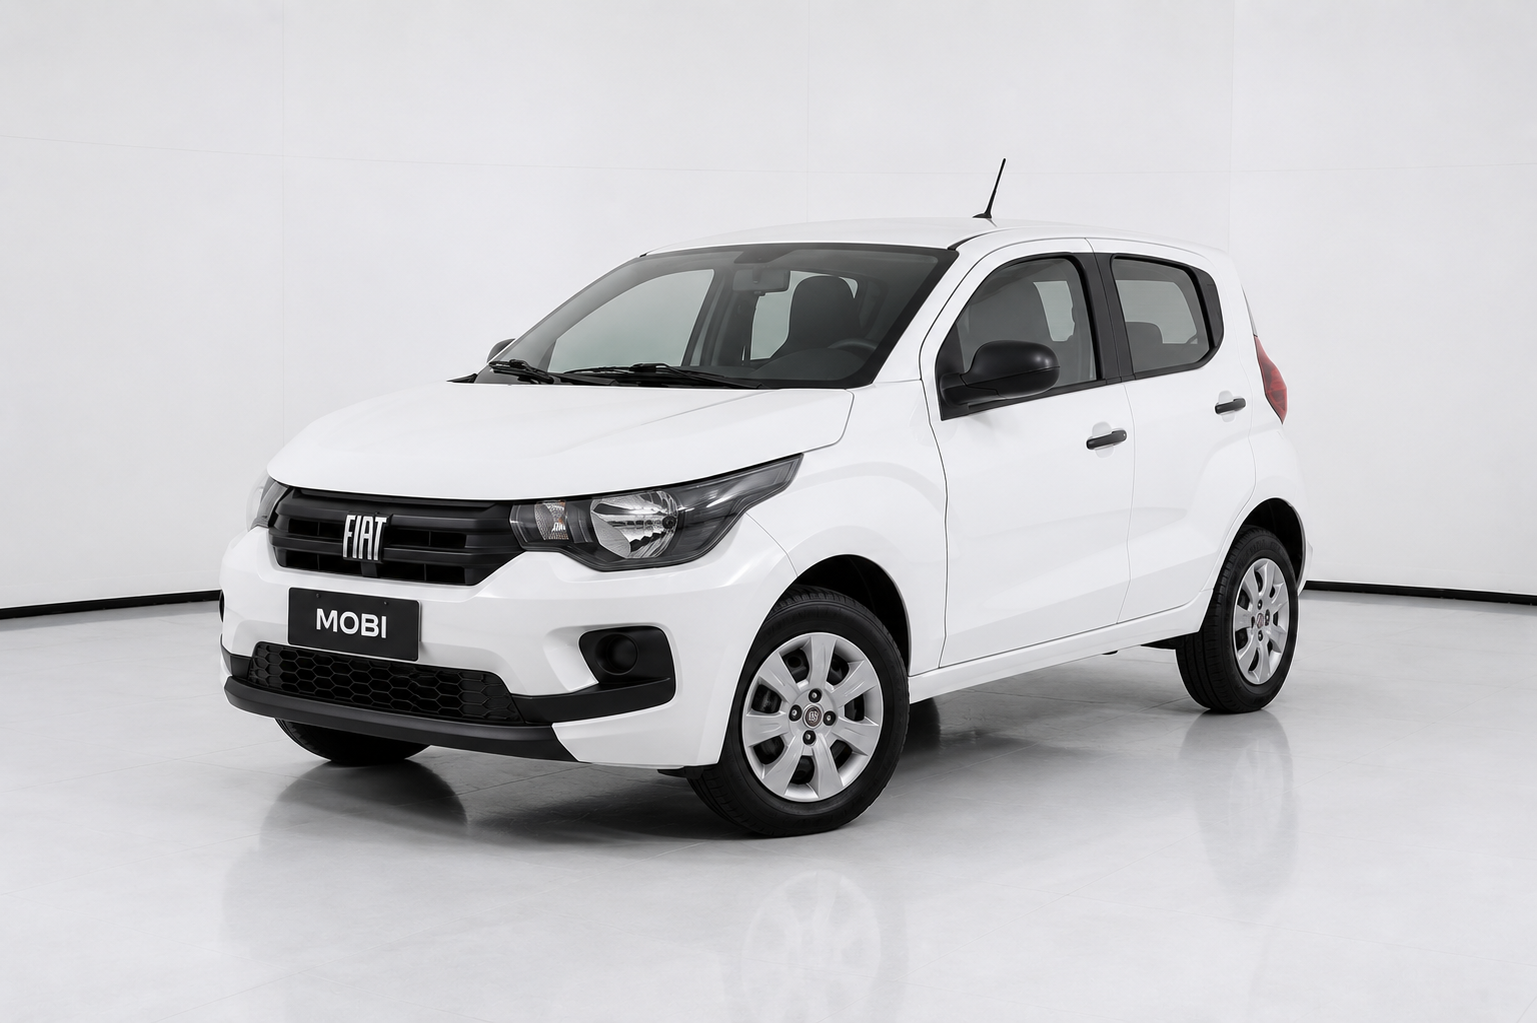
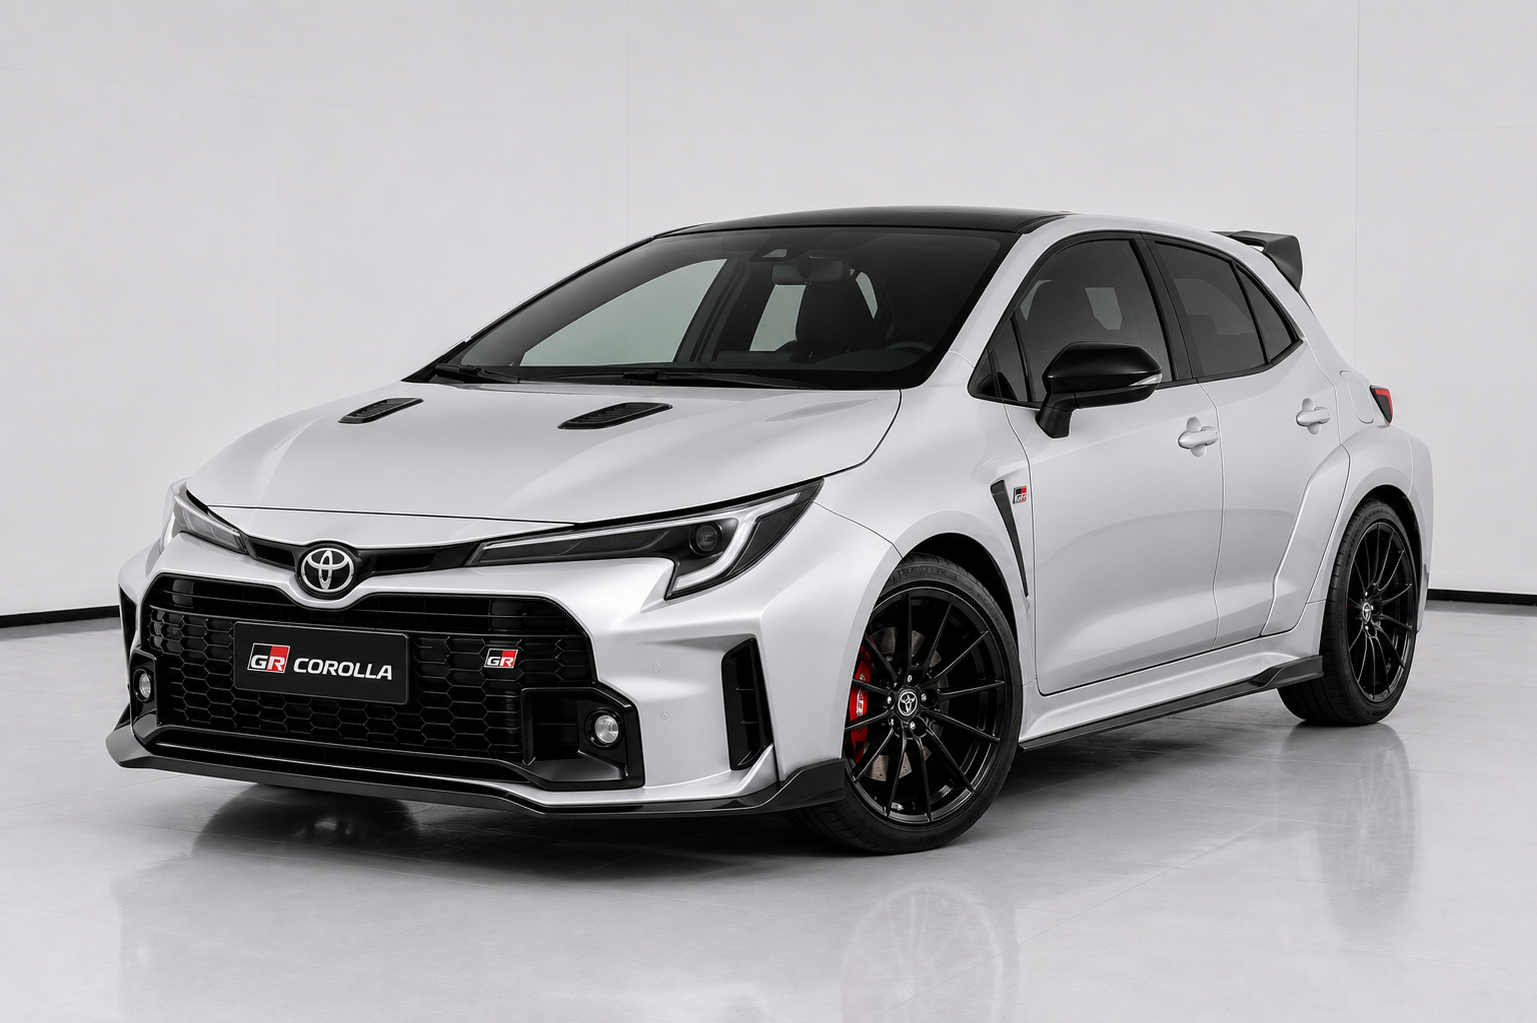
new cars

diff --git a/src/data/cars.js b/src/data/cars.js
@@ -17,7 +17,7 @@ export const CarsData = [
   { id: 5, title: "BMW M2 xDrive", category: "Coup", banner: coup, fipe: 535000 },
   { id: 6, title: "Toyota Corolla XEI", category: "Sedans", banner: sedan, fipe: 151000 },
   { id: 7, title: "Fiat Touro", category: "Picapes", banner: picape, fipe: 315000 },
-  { id: 8, title: "Fiat Mobi", category: "Hatches", banner: hatches, fipe: 98000 },
+  { id: 8, title: "Toyota Corolla GR", category: "Hatches", banner: hatches, fipe: 325000 },
   { id: 9, title: "Opala ss ", category: "Classicos", banner: classicos, fipe: 185000 },
 
 